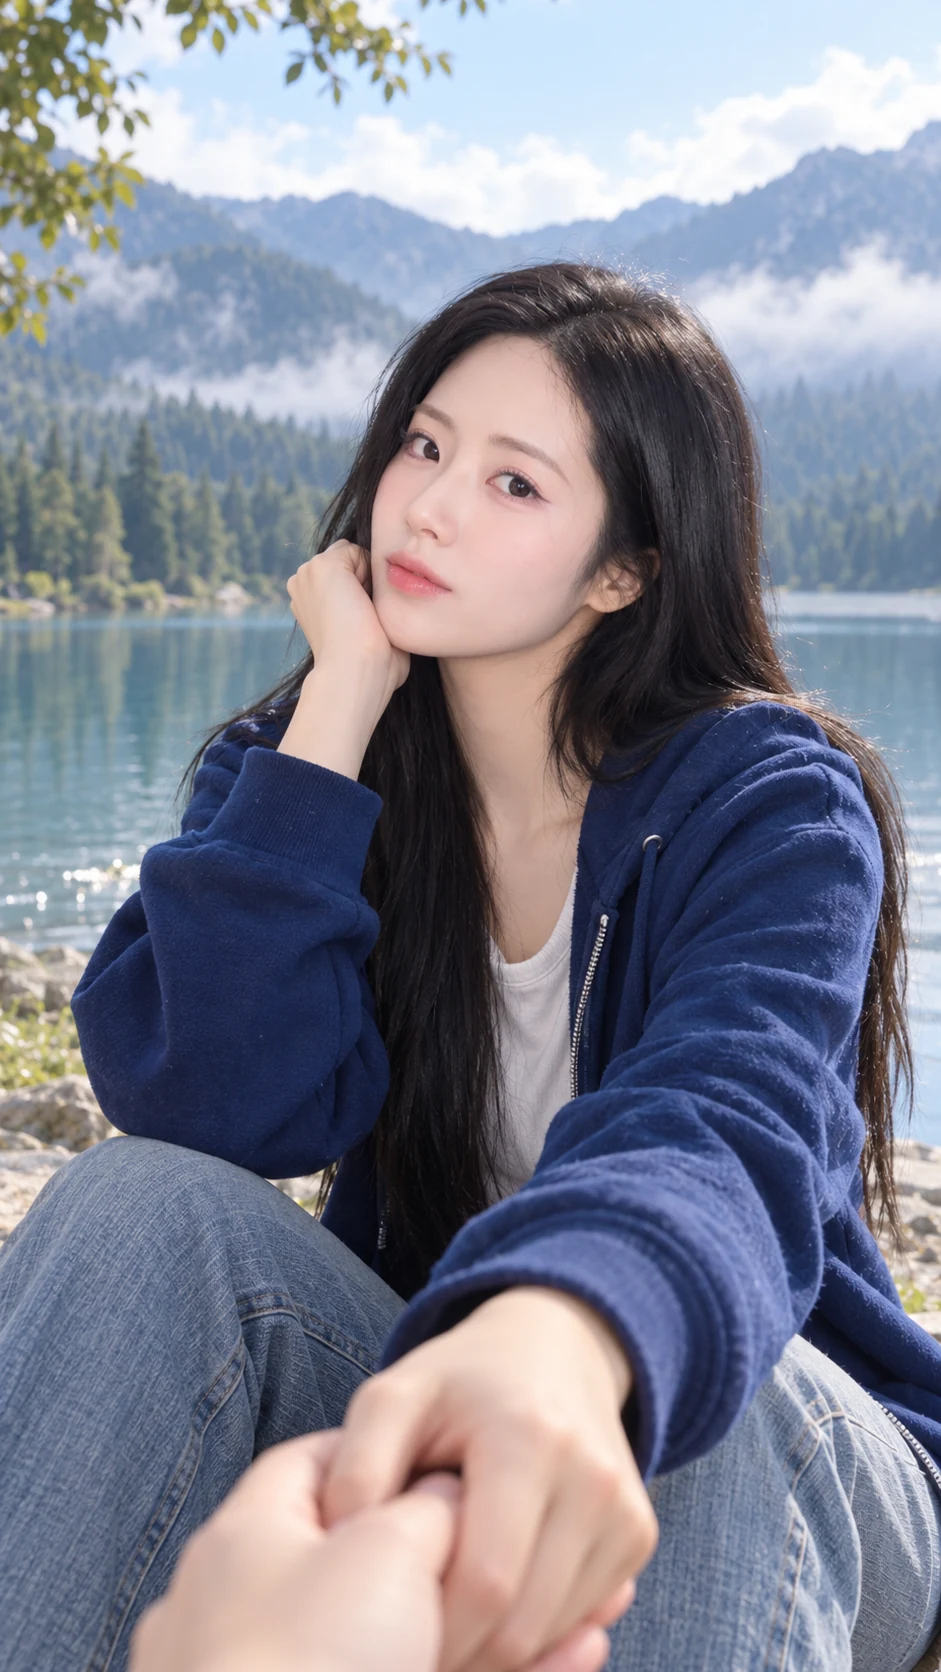
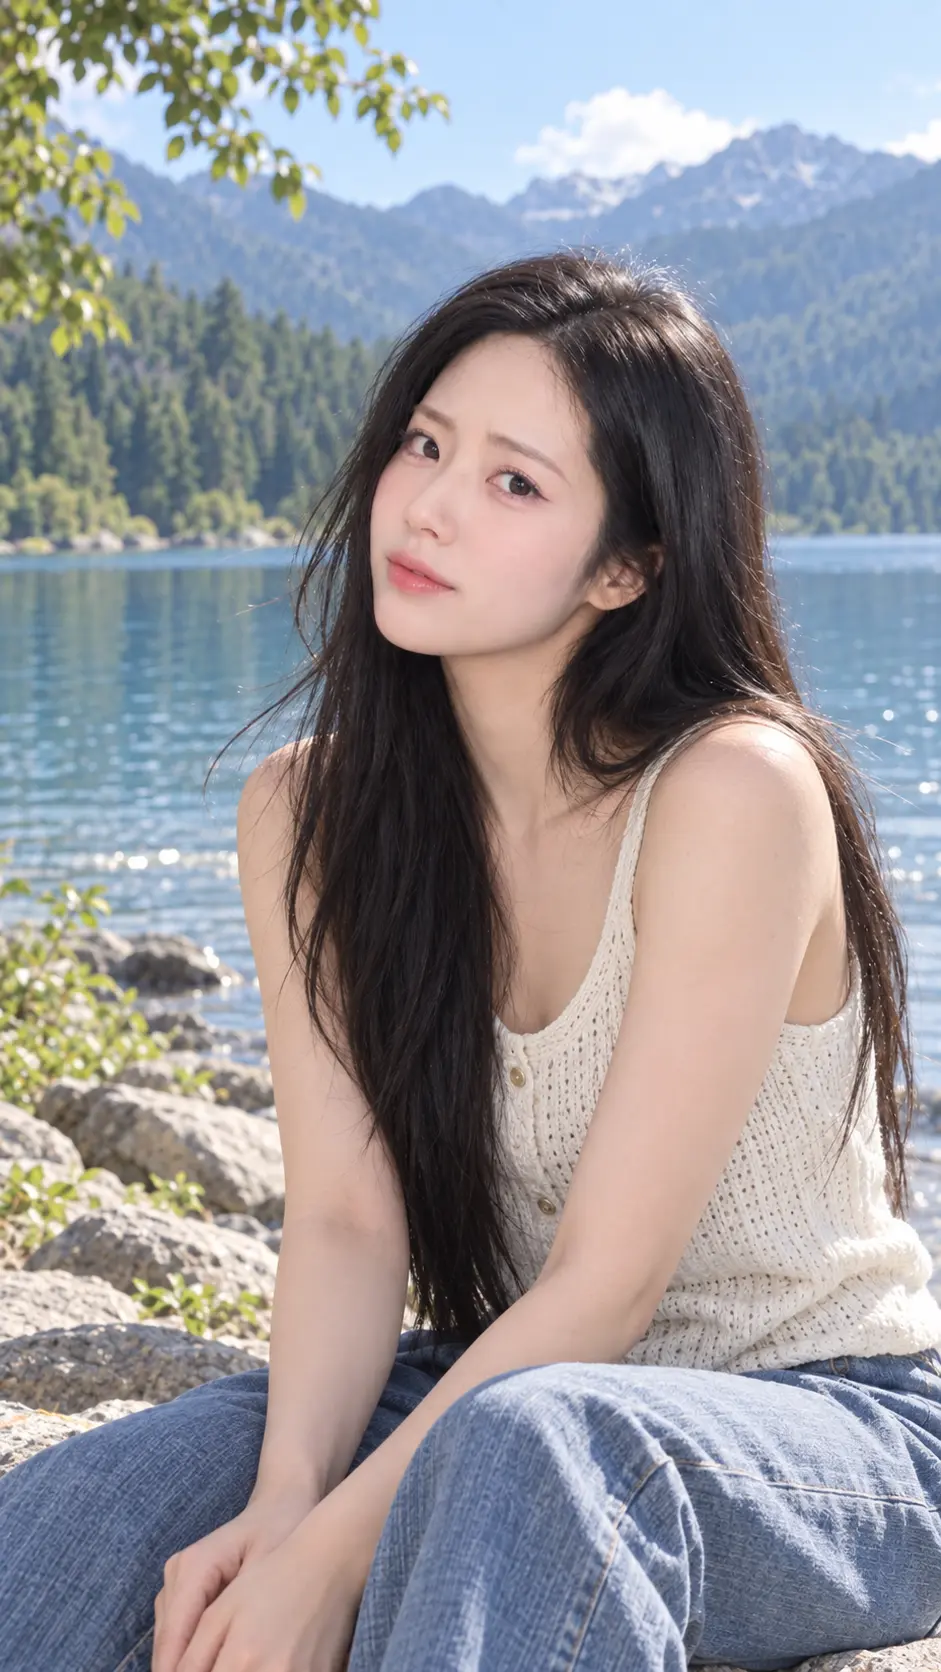
feat : 사진개선, 줄정리.

diff --git a/src/app.js b/src/app.js
@@ -31,7 +31,7 @@
     'together-collapse': { file: 'together-collapse.webp' },
 
     airport: { file: 'airport.webp', wide: true }, cabin: { file: 'cabin.webp', wide: true },
-    'airport-her': { file: 'airport-her.webp' }, 'lake-empty': { file: 'lake-empty.webp' },
+    'airport-her': { file: 'airport-her.webp' }, 'lake-empty': { file: 'lake-empty.webp' }, crossroads: { file: 'crossroads.webp' },
     'lake-meeting': { file: 'lake-meeting.webp' }, 'cabin-winter': { file: 'cabin-winter.webp' },
     'guitar-spring': { file: 'guitar-spring.webp' }, 'lake-rain': { file: 'lake-rain.webp' }, birthday: { file: 'birthday.webp' },
   };
@@ -173,7 +173,7 @@
     if (state.ending) return renderEnding(state.ending);
     screen = 'game'; galleryEnding = null;
     const f = currentFrame(state);
-    const { scene, line, text, isChoice } = f;
+    const { scene, line, text, place, date, isChoice } = f;
     setArt(f.art, scene.mood);
     queueArt(scene, state.index);
     if (skipping && (isChoice || !seen.has(frameKey(state)))) {
@@ -193,7 +193,7 @@
     }
     const reading = isChoice ? null : WDIC.readingProgress(state, offset, innerWidth, progress.prefs.font);
     app.innerHTML = `<section class="game-screen"><header class="game-header"><div class="chapter"><span class="chapter-num">${scene.chapter}</span><div><p class="eyebrow">${scene.pov ? 'Her side' : 'His side'}</p><h1>${escape(scene.title)}</h1></div></div><div class="header-tools">${soundButton()}<button class="utility" data-action="memories" aria-label="남겨 둔 기록">${icon('phone')}<span>기록</span></button></div></header>
-      <div class="location"><span>${escape(scene.place)}</span><time>${escape(scene.date)}</time></div>${scene.pov ? `<p class="pov-label">${escape(scene.pov)}의 시점</p>` : ''}<div class="art-space"></div>
+      <div class="location"><span>${escape(place)}</span><time>${escape(date)}</time></div>${scene.pov ? `<p class="pov-label">${escape(scene.pov)}의 시점</p>` : ''}<div class="art-space"></div>
       <div class="reader-area">${isChoice ? `<section class="reader-panel choice-panel" aria-labelledby="choice-prompt"><p class="eyebrow">Your choice</p><h2 class="choice-heading" id="choice-prompt">${escape(scene.prompt)}</h2><div class="choices">${scene.choices.map((choice, i) => `<button class="choice" data-action="choose" data-index="${i}"><span class="choice-number">0${i + 1}</span><span>${escape(choice.text)}</span>${icon('arrow')}</button>`).join('')}</div><p class="choice-note">선택 직전에 자동으로 저장됩니다.</p></section>` : `<section class="reader-panel" aria-label="이야기"><div class="speaker-row"><span class="speaker">${escape(line.speaker || (scene.pov ? `${scene.pov}의 기억` : '나의 기억'))}</span><span class="page-count" aria-label="읽기 진행">${reading.current} / ${reading.total}</span></div><div class="copybox" tabindex="0" aria-label="대사 내용"><p class="prose prose-ghost" aria-hidden="true">${escape(fullPage)}</p><p class="prose prose-live" id="prose" aria-hidden="true"></p><p class="sr-only" role="status" aria-live="polite" aria-atomic="true">${escape(fullPage)}</p></div><div class="dialogue-bottom"><span class="reading-hint">화면을 눌러 계속 · 긴 대사는 위아래로 스크롤</span><button class="next-button" data-action="next">계속 ${icon('arrow')}</button></div></section>`}
       <nav class="reader-toolbar" aria-label="읽기 도구"><button data-action="back" ${!state.trail.length && !offset ? 'disabled' : ''}>${icon('back')}이전</button><button data-action="auto" class="${auto ? 'active' : ''}" aria-pressed="${auto}">${icon(auto ? 'pause' : 'play')}자동</button><button data-action="skip" class="${skipping ? 'active' : ''}" aria-pressed="${skipping}">${icon('skip')}읽은 글</button><button data-action="saves">${icon('save')}저장</button><button data-action="menu">${icon('menu')}메뉴</button></nav></div><button class="peek-exit" data-action="peek-exit">이야기로 돌아가기</button></section>`;
     if (!isChoice) startTyping(instant || skipping);

diff --git a/src/story.js b/src/story.js
@@ -271,7 +271,9 @@
       {
         "text": "다음 날 아침, 신호가 돌아왔다.\n2023년 9월 30일.\n전원을 껐다 켜도 날짜는 바뀌지 않았다.",
         "memory": "date",
-        "art": "lake-empty"
+        "place": "산장",
+        "date": "2023. 09. 30",
+        "art": "cabin"
       }
     ],
     "mood": "storm",
@@ -282,7 +284,7 @@
     "title": "세 해 전의 아침",
     "place": "산장 앞 · 갈림길",
     "date": "2023. 09. 30",
-    "art": "lake-empty",
+    "art": "crossroads",
     "lines": [
       {
         "text": "비는 그쳤다. 터널 쪽에서 고양이 우는 소리가 들렸다. 반대편 길은 버스가 다니는 마을로 이어졌다."
@@ -3441,7 +3443,7 @@
     return { ...ending, ...(ending.variants?.[flags.route] || {}) };
   }
   function sentenceLines(text) {
-    return text.replace(/([^\d.])([.!?。][”’」』"]?)[ \t]+(?=\S)/g, '$1$2\n');
+    return text.replace(/,([ \t]*)(?=\S)/g, ', ').replace(/([^\d.])([.!?。][”’」』"]?)[ \t]+(?=\S)/g, '$1$2\n');
   }
   function lineText(line, flags) {
     if (!line.flag) return sentenceLines(line.text);

diff --git a/src/engine.js b/src/engine.js
@@ -14,7 +14,7 @@
     const scene = SCENES[state.node];
     const line = scene.lines[state.index];
     const art = [...scene.lines.slice(0, state.index + 1)].reverse().find(l => l.art)?.art || scene.art;
-    return { scene, line, art, text: line ? lineText(line, state.flags) : '', isChoice: !line && !!scene.choices, ending: state.ending };
+    return { scene, line, art, place: line?.place || scene.place, date: line?.date || scene.date, text: line ? lineText(line, state.flags) : '', isChoice: !line && !!scene.choices, ending: state.ending };
   }
   function collectMemory(state) {
     const { line } = currentFrame(state);

diff --git a/README.md b/README.md
@@ -1,4 +1,4 @@
-# Why do I cry? — Mobile Edition V5.1
+# Why do I cry? — Mobile Edition V5.3
 
 공항의 낯선 인사, 세 해 전으로 이어지는 터널, 함께 보낸 일 년에서 시작되는 한국어 멀티엔딩 비주얼노벨입니다. 이야기 설정을 바탕으로 게임용 대사와 분기를 각색한 판입니다.
 
@@ -23,7 +23,7 @@ ZIP을 전부 압축 해제하고 **index.html**을 브라우저에서 여세요
 - 산장 열쇠를 빌려준 친구 B의 이야기가 본편에 합류합니다. 2023년 가을에 명시적으로 루트를 고르며, B의 기억에서는 2025~2026년에 친구로 지냈던 시간을 읽습니다.
 - 메인 엔딩 8개와 짧은 세계 붕괴 엔딩 1개. 겨울과 생일에 미뤄 둔 대답을 보완할 기회가 있습니다.
 - 기존 장면 17장에 B 전용 세로 이미지 12장을 더해 총 29장을 사용합니다. 첫 만남·커피·작별·친구로 지낸 날들·재회·배드엔딩을 구분하며, B의 겨울·커피·작별·재회 표정을 서로 다르게 구성했습니다.
-- 첫 장면은 미리 불러오고, 다음 대사·선택지의 장면은 브라우저가 한가할 때 예열합니다. 큰 배경 WebP만 용량을 줄였으며, A·B 인물 이미지의 원본 얼굴 품질은 다시 압축하지 않았습니다.
+- 첫 장면은 미리 불러오고, 다음 대사·선택지의 장면은 브라우저가 한가할 때 예열합니다. 장면별 WebP 이미지를 모바일 세로 화면에 맞게 최적화했으며, 산장 앞 갈림길은 산장·터널·마을로 나뉘는 길로, A 첫 만남은 오두막 없는 호수 장면으로, B 여름은 새 구도의 사진으로 구성했습니다.
 - 마침표 뒤 줄바꿈, 날짜·말줄임표 보존, 긴 문장의 화면별 나누기를 적용했습니다.
 - 대사와 선택지를 화면 아래 같은 영역에 배치. 글자 크기에 따른 문장 나누기, 화면 탭 진행, 드래그 오작동 방지, 선택지 표시 직후 연속 터치 방지.
 - 자동 읽기, 이미 읽은 문장 건너뛰기, 이전 문장, 전체 대화 기록, 기억·약속 보관함.
